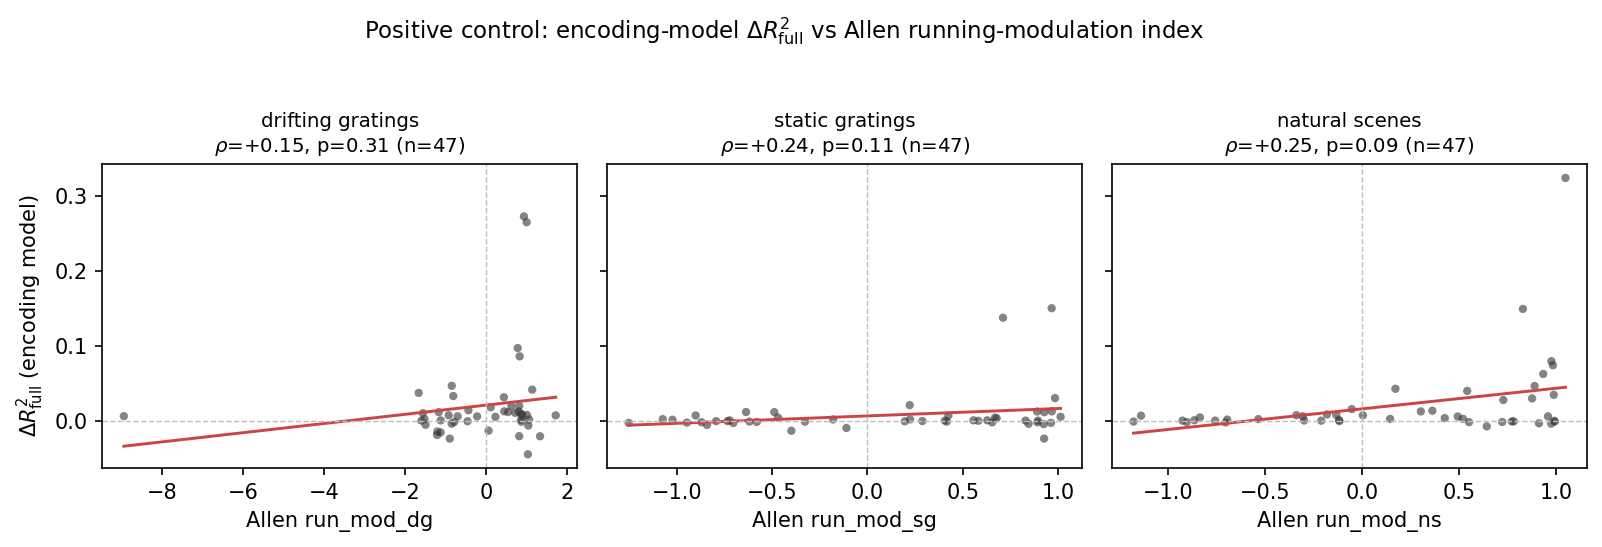
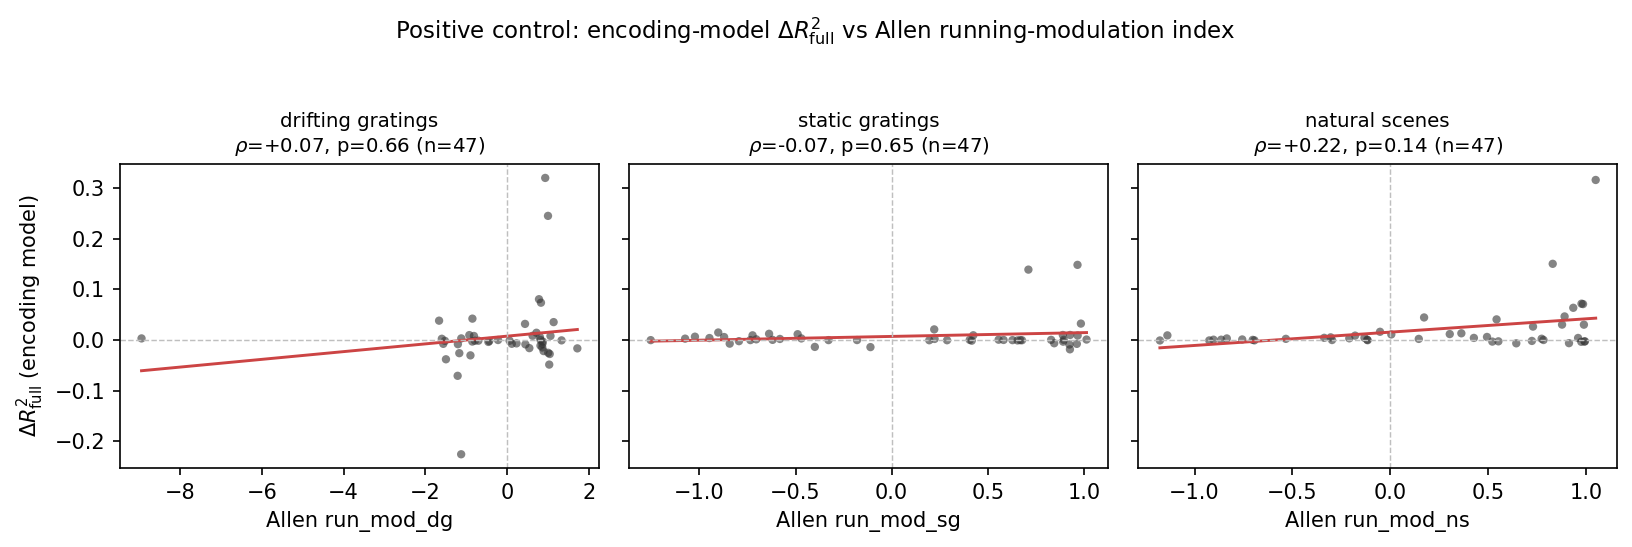
EncodingModel: fitted ridge one-hot tuning (reference-faithful); fix PR review
Reworks the stimulus term from a single per-condition mean to a FITTED,
ridge-penalized one-hot tuning A·s(t) (as in Liska/Yates), addressing PR #1
Copilot comments and the two modelling concerns:

- Tuning f(S) is now fitted + ridge-penalized (shrinks noisy per-condition
  estimates), not an unpenalized offset/rank-1 column; this restores a positive
  Null R² and the Allen run_mod positive control (an unpenalized tuning gave a
  significant wrong-sign correlation).  [Copilot E; the f̂ concern]
- The RidgeCV/GCV intercept is documented as the (deliberate, unpenalized)
  baseline; it is NOT removed — that would collapse R² once features are
  centred.  [Copilot A, C, G; the intercept concern]
- Drops the invalid "fitted f̂ coefficient ≈ 1" positive control.  [Copilot D]
- Adds tests/test_encoding.py (tent_basis, one-hot, design shapes, fit_all
  smoke test) + pytest to requirements.  [Copilot B]

Fitting: closed-form SVD ridge with per-target GCV-selected λ
(_ridge_cv_predict); Null/Add fit multi-target across cells, Mult/Full
per-cell. Much faster than the per-cell RidgeCV loop, with a consistent λ
across nested models (fixes a bug where spontaneous Mult ≠ Add).

Result (updated EncodingModel.md §7 + figures): with the reference-grade
tuning, running modulation of V1 is SPECIFIC TO NATURAL SCENES (ΔR²_full
p≈3e-5, significant gain term), significantly exceeds both grating types, and
is absent for drifting gratings — reversing the naive "specifically in
[…]

diff --git a/utils.py b/utils.py
@@ -817,40 +817,60 @@ class EncodingModel:
             self._V = self._td.running_speed.mean(axis=1)
         return self._V
 
-    def _build_design(self, cell, model="full", fhat=None):
+    def _stimulus_onehot(self, labels=None):
+        """One-hot per-condition stimulus design, shape ``(n_trials, n_conditions)``.
+
+        The fitted (ridge-penalized) weights on these columns are the neuron's
+        tuning ``f(S) = A·s(t)`` (as in Liska/Yates); ridge shrinks the noisy
+        per-condition estimates. Shared across cells. For ``spontaneous`` (a
+        single condition) this is one column, collinear with the intercept —
+        harmless under ridge.
+        """
+        if labels is None:
+            labels = self._condition_labels()
+        return (labels[:, None] == np.unique(labels)[None, :]).astype(float)
+
+    def _build_design(self, cell, model="full", onehot=None, drive=None):
         """Assemble the design matrix for one cell and one nested model.
 
-        Columns are ``[f̂(S), drift(n_basis), (V), (V·f̂(S))]``, with the
-        running columns included per ``model``:
+        Columns are ``[f(S), drift(n_basis), (V), (V·d̂(S))]``, included per
+        ``model``:
 
-        - ``"null"`` : f̂(S), drift
-        - ``"add"``  : + V            (additive running term)
-        - ``"mult"`` : + V·f̂(S)      (multiplicative gain, linearized)
-        - ``"full"`` : + V + V·f̂(S)
+        - ``"null"`` : f(S), drift
+        - ``"add"``  : + V             (additive running term)
+        - ``"mult"`` : + V·d̂(S)       (running gated by the stimulus drive)
+        - ``"full"`` : + V + V·d̂(S)
 
-        No separate intercept column: the partition-of-unity tent basis
-        already spans the constant, so ``β₀(t) = Σⱼ bⱼ φⱼ(t)`` is the
-        (time-varying) baseline; a constant column would be collinear with it.
+        The stimulus tuning ``f(S)`` is the **fitted, ridge-penalized one-hot**
+        design (:meth:`_stimulus_onehot`) — ridge shrinks the noisy per-condition
+        estimates. The multiplicative term gates running by the per-condition
+        drive ``d̂(S)`` (the per-fold mean, i.e. the OLS one-hot drive). No
+        explicit intercept column: the (unpenalized) ``RidgeCV`` intercept in
+        :meth:`fit_all` is the baseline, and the tent basis models drift.
 
         Parameters
         ----------
-        fhat : np.ndarray, optional
-            A ``(n_cells, n_trials)`` stimulus-mean array to use instead of the
-            cached all-trial :meth:`_stimulus_mean`. Pass the training-fold
-            f̂(S) during cross-validation (:meth:`fit_all`) so the R² stays
-            leakage-free.
+        onehot : np.ndarray, optional
+            ``(n_trials, n_conditions)`` tuning design; defaults to
+            :meth:`_stimulus_onehot`. (Shared across cells — the Null/Add designs
+            do not depend on ``cell``.)
+        drive : np.ndarray, optional
+            ``(n_cells, n_trials)`` per-condition drive for the interaction; pass
+            the training-fold mean during CV so it stays leakage-free (defaults
+            to the cached all-trial :meth:`_stimulus_mean`).
 
         Returns ``(n_trials, n_features)``.
         """
         assert model in ("null", "add", "mult", "full"), f"unknown model: {model}"
-        fhat_cell = (self._stimulus_mean() if fhat is None else fhat)[cell]
+        S = self._stimulus_onehot() if onehot is None else onehot
         drift = self._drift_basis()                        # (n_trials, n_basis)
         V = self._running_speed()                          # (n_trials,)
-        cols = [fhat_cell[:, None], drift]
+        cols = [S, drift]
         if model in ("add", "full"):
             cols.append(V[:, None])
         if model in ("mult", "full"):
-            cols.append((V * fhat_cell)[:, None])
+            d = (self._stimulus_mean() if drive is None else drive)[cell]
+            cols.append((V * d)[:, None])
         return np.column_stack(cols)
 
     def _fold_stimulus_mean(self, R, labels, train_idx):
@@ -883,15 +903,51 @@ class EncodingModel:
         ss_tot = ((y - y.mean(axis=1, keepdims=True)) ** 2).sum(axis=1)
         return 1.0 - ss_res / ss_tot
 
+    @staticmethod
+    def _ridge_cv_predict(X_tr, Y_tr, X_te, alphas):
+        """Ridge with a **per-target** GCV-selected λ and an unpenalized intercept.
+
+        Features are z-scored on ``X_tr``; the intercept (target mean) is not
+        penalised. ``Y_tr`` may be 1-D ``(n,)`` or 2-D ``(n, m)``; a 2-D array
+        shares the design (one SVD) but each column (cell) selects its **own** λ,
+        so the multi-target Null/Add fits match a per-cell fit exactly — the
+        nested ΔR² comparison stays consistent across models. Returns test
+        predictions of matching shape via a closed-form SVD solve (far faster
+        than a per-cell ``RidgeCV`` loop for this many small fits).
+        """
+        mu = X_tr.mean(0); sd = X_tr.std(0); sd = np.where(sd == 0, 1.0, sd)
+        Xz = (X_tr - mu) / sd
+        one_d = Y_tr.ndim == 1
+        Y = Y_tr[:, None] if one_d else Y_tr
+        ybar = Y.mean(0)
+        Yc = Y - ybar
+        U, s, Vt = np.linalg.svd(Xz, full_matrices=False)
+        UtY = U.T @ Yc                                          # (r, m)
+        n, m = Xz.shape[0], Y.shape[1]; s2 = s ** 2
+        best_gcv = np.full(m, np.inf); best_a = np.full(m, alphas[0], dtype=float)
+        for a in alphas:                                        # per-target GCV
+            f = s2 / (s2 + a)
+            rss = ((Yc - U @ (f[:, None] * UtY)) ** 2).sum(0)   # (m,)
+            gcv = rss / (n * (1 - f.sum() / n) ** 2)
+            better = gcv < best_gcv
+            best_gcv[better] = gcv[better]; best_a[better] = a
+        fj = s[:, None] / (s2[:, None] + best_a[None, :])       # (r, m)
+        B = Vt.T @ (fj * UtY)                                   # (p, m)
+        pred = ((X_te - mu) / sd) @ B + ybar                   # (n_te, m)
+        return pred[:, 0] if one_d else pred
+
     def fit_all(self, n_folds=5, alphas=None, random_state=0):
         """Fit all four nested models per neuron with cross-validated R².
 
         Each neuron is fit by ridge regression (standardized features, λ chosen
-        by :class:`sklearn.linear_model.RidgeCV`) under ``n_folds``-fold
-        cross-validation. The stimulus mean f̂(S) is recomputed from the
-        *training* trials of every fold (:meth:`_fold_stimulus_mean`), so the
-        stored R² is a genuine out-of-fold prediction score that the Null model
-        cannot inflate by memorising per-condition means.
+        by :class:`sklearn.linear_model.RidgeCV`, unpenalized intercept) under
+        ``n_folds``-fold cross-validation. The stimulus tuning ``f(S)`` is a
+        **fitted, ridge-penalized one-hot** design (:meth:`_stimulus_onehot`);
+        ridge shrinks the noisy per-condition estimates. The multiplicative term
+        gates running by the per-condition drive, recomputed from *training*
+        trials each fold (:meth:`_fold_stimulus_mean`) so the R² is leakage-free.
+        The stimulus-only Null/Add designs are shared across cells and fit as a
+        single multi-target ridge.
 
         Parameters
         ----------
@@ -909,13 +965,11 @@ class EncodingModel:
 
         Notes
         -----
-        For ``spontaneous`` there is a single stimulus condition, so f̂(S) is
-        constant and the multiplicative term ``V·f̂(S) ∝ V``; ``r2_mult`` then
-        coincides with ``r2_add`` (ridge tolerates the collinearity).
+        For ``spontaneous`` there is a single stimulus condition, so the one-hot
+        tuning is a single (constant) column and the drive is constant; the
+        multiplicative term ``V·d̂ ∝ V``, so ``r2_mult`` coincides with
+        ``r2_add`` (ridge tolerates the collinearity).
         """
-        from sklearn.linear_model import RidgeCV
-        from sklearn.preprocessing import StandardScaler
-        from sklearn.pipeline import Pipeline
         from sklearn.model_selection import KFold
 
         if alphas is None:
@@ -923,22 +977,25 @@ class EncodingModel:
 
         R = self._trial_response()                 # (n_cells, n_trials) targets
         labels = self._condition_labels()          # (n_trials,)
+        S = self._stimulus_onehot(labels)          # (n_trials, n_conditions) tuning design
         n_cells, n_trials = R.shape
         models = ("null", "add", "mult", "full")
         yhat = {m: np.empty_like(R) for m in models}
 
         kf = KFold(n_splits=n_folds, shuffle=True, random_state=random_state)
         for train_idx, test_idx in kf.split(np.arange(n_trials)):
-            fhat = self._fold_stimulus_mean(R, labels, train_idx)   # train-only f̂(S)
+            drive = self._fold_stimulus_mean(R, labels, train_idx)   # per-fold drive (leak-free)
             for model in models:
-                for cell in range(n_cells):
-                    X = self._build_design(cell, model, fhat=fhat)
-                    pipe = Pipeline([
-                        ("scale", StandardScaler()),
-                        ("ridge", RidgeCV(alphas=alphas)),
-                    ])
-                    pipe.fit(X[train_idx], R[cell, train_idx])
-                    yhat[model][cell, test_idx] = pipe.predict(X[test_idx])
+                if model in ("null", "add"):
+                    # stimulus-only design is identical across cells: one shared solve
+                    X = self._build_design(0, model, onehot=S, drive=drive)
+                    yhat[model][:, test_idx] = self._ridge_cv_predict(
+                        X[train_idx], R[:, train_idx].T, X[test_idx], alphas).T
+                else:
+                    for cell in range(n_cells):
+                        X = self._build_design(cell, model, onehot=S, drive=drive)
+                        yhat[model][cell, test_idx] = self._ridge_cv_predict(
+                            X[train_idx], R[cell, train_idx], X[test_idx], alphas)
 
         for model in models:
             setattr(self, f"r2_{model}", self._pooled_r2(R, yhat[model]))

diff --git a/tests/test_encoding.py b/tests/test_encoding.py
@@ -1,0 +1,89 @@
+"""Unit tests for the EncodingModel (Analysis 3) building blocks.
+
+Run from the repo root in the ``allensdk`` env:  ``pytest tests/``
+"""
+import os
+import sys
+
+sys.path.insert(0, os.path.dirname(os.path.dirname(os.path.abspath(__file__))))
+
+import numpy as np
+import pytest
+
+from utils import tent_basis, EncodingModel, TrialData
+
+
+# ----------------------------- tent_basis ---------------------------------
+
+def test_tent_basis_hand_values():
+    B = tent_basis([0.0, 0.5, 1.0], [0, 1])
+    assert np.allclose(B, [[1, 0], [0.5, 0.5], [0, 1]])
+
+
+def test_tent_basis_partition_of_unity():
+    centers = np.linspace(0, 10, 5)
+    xs = np.linspace(0, 10, 51)               # within the knot span
+    assert np.allclose(tent_basis(xs, centers).sum(axis=1), 1.0)
+
+
+def test_tent_basis_peak_and_single_center():
+    centers = np.linspace(0, 8, 4)
+    assert np.allclose(np.diag(tent_basis(centers, centers)), 1.0)   # 1 at each center
+    assert np.allclose(tent_basis([1, 2, 3], [5]), 1.0)             # single center -> ones
+
+
+# ----------------------------- fixtures -----------------------------------
+
+def _synthetic_td(n_cells=3, n_trials=60, duration=5, n_cond=4, seed=0):
+    rng = np.random.default_rng(seed)
+    responses = rng.normal(size=(n_cells, n_trials, duration))
+    running_speed = np.abs(rng.normal(size=(n_trials, duration)))
+    time = np.tile(np.arange(n_trials, dtype=float)[:, None], (1, duration))
+    orientation = np.tile(np.arange(n_cond), n_trials // n_cond + 1)[:n_trials].astype(float)
+    return TrialData(
+        stimulus="drifting_gratings",
+        params={"offset": 0, "duration": duration},
+        responses=responses,
+        running_speed=running_speed,
+        time=time,
+        stimulus_params={"orientation": orientation},
+    )
+
+
+# --------------------------- _build_design --------------------------------
+
+def test_stimulus_onehot():
+    td = _synthetic_td(n_cond=4)
+    S = EncodingModel(td)._stimulus_onehot()
+    assert S.shape == (td.responses.shape[1], 4)
+    assert np.allclose(S.sum(1), 1.0)          # exactly one condition active per trial
+
+
[email redacted]("model,extra_cols", [("null", 0), ("add", 1), ("mult", 1), ("full", 2)])
+def test_build_design_columns(model, extra_cols):
+    td = _synthetic_td()
+    em = EncodingModel(td, n_basis=3)
+    n_cond = len(np.unique(em._condition_labels()))
+    X = em._build_design(0, model, onehot=em._stimulus_onehot(), drive=em._stimulus_mean())
+    # design = one-hot tuning (n_cond) + drift(n_basis) + running columns
+    assert X.shape == (td.responses.shape[1], n_cond + 3 + extra_cols)
+
+
+# ------------------------------- fit_all ----------------------------------
+
+def test_fit_all_finite_and_shapes():
+    td = _synthetic_td()
+    em = EncodingModel(td, n_basis=3).fit_all(n_folds=3)
+    n_cells = td.responses.shape[0]
+    for m in ("null", "add", "mult", "full"):
+        r = getattr(em, f"r2_{m}")
+        assert r.shape == (n_cells,)
+        assert np.isfinite(r).all()
+    d_add, d_mult, d_full = em.r2_decomposition()
+    assert d_add.shape == d_mult.shape == d_full.shape == (n_cells,)
+
+
+def test_r2_decomposition_requires_fit():
+    em = EncodingModel(_synthetic_td())
+    with pytest.raises(RuntimeError):
+        em.r2_decomposition()

diff --git a/doc/EncodingModel.md b/doc/EncodingModel.md
@@ -30,21 +30,21 @@ novel and is predicted by state-dependent sparsening (Froudarakis et al. 2014).
 Per neuron *i*, trial *t*, four **nested linear** models (design assembled by `_build_design`):
 
 ```
-Null :  r_i(t) = f̂_i(S) + Σ_j b_ij φ_j(t)
+Null :  r_i(t) = A_i·s(t) + β₀ + Σ_j b_ij φ_j(t)
 Add  :        + β_add · V(t)
-Mult :        + β_mult · [ V(t) · f̂_i(S) ]
-Full :        + β_add · V(t) + β_mult · [ V(t) · f̂_i(S) ]
+Mult :        + β_mult · [ V(t) · d̂_i(S) ]
+Full :        + β_add · V(t) + β_mult · [ V(t) · d̂_i(S) ]
 ```
 
-- **f̂(S)** — per-condition mean response (the empirical tuning). Conditions: dg = orientation×temporal-frequency; sg = orientation×spatial-frequency×phase; ns = image identity (`frame`, 118 images, blank `-1` already excluded by `extract_trials`); spont = single condition (constant). The Null model thus **"takes out" the stimulus mean and predicts the residual** ([`Plan.md`](Plan.md):32).
-- **β₀(t) = Σ_j b_j φ_j(t)** — slow-drift baseline; φ_j are `n_basis` (=5) partition-of-unity tent functions over trial time (`tent_basis`). No separate intercept: the tent basis already spans the constant.
+- **f(S) = A·s(t)** — the stimulus tuning, a **fitted, ridge-penalized one-hot** design: `s(t)` is a one-hot vector over stimulus conditions and `A_i` are per-condition weights fit per neuron — exactly the tuning term of Liska/Yates (`do_regression_ss.m`). Conditions: dg = orientation×temporal-frequency; sg = orientation×spatial-frequency×phase; ns = image identity (`frame`, 118 images, blank `-1` excluded by `extract_trials`); spont = single condition. **Ridge shrinks the noisy per-condition estimates** — this matters: an unpenalized/OLS tuning (or a coefficient-1 offset) injects per-condition noise for few-trial conditions and breaks the Allen `run_mod` positive control (§8).
+- **Baseline** — a **fitted, unpenalized intercept** β₀ plus a **slow-drift** term `Σ_j b_j φ_j(t)`, where φ_j are `n_basis` (=5) partition-of-unity tent functions over trial time (`tent_basis`). No constant design column; the intercept is the baseline and the tent basis captures drift around it.
 - **V(t)** — per-trial mean running speed (raw; `extract_trials` does not clamp, so small tracking-noise negatives occur, inconsequential for a linear regressor).
-- **Multiplicative term.** `Plan.md` specifies a rectified gain `ReLU[1 + β_mult·V]` scaling f(S) (after Liska/Yates). We use its **first-order linearization**, the interaction `β_mult·(V·f̂(S))`, because (i) it keeps all four models linear, giving a clean cross-validated ΔR² decomposition (the project's target quantity, which neither reference paper computes) and (ii) `f̂(S)(1+β_mult V) = f̂(S) + β_mult(V·f̂(S))`. Sign and magnitude of β_mult retain the gain interpretation (>0 ⇒ running amplifies stimulus responses).
+- **Multiplicative term** — running gated by the stimulus drive: `β_mult·(V·d̂(S))`, where `d̂(S)` is the per-condition drive (the per-fold OLS one-hot mean). This is the first-order linearization of Plan.md's rectified gain `ReLU[1+β_mult·V]`, keeping all four models linear (a clean cross-validated ΔR² decomposition — the project's target quantity, which neither reference computes). We do **not** fit the single-scalar gain that scales the *fitted* drive by alternating least squares: the exploration found that gain negligible for gratings and unnecessary to restore the control (§7). β_mult > 0 ⇒ running amplifies stimulus responses.
 
 ## 3. Estimation (`fit_all`)
 
-- **Ridge regression** per neuron: `Pipeline(StandardScaler, RidgeCV(alphas=logspace(-3,3,13)))`; features standardised, penalty λ selected by RidgeCV. Ridge is required because the Full model's terms are partly collinear and because it curbs the extra-parameter overfitting that would otherwise let Full win trivially.
-- **5-fold cross-validation** (`KFold`, shuffled, seed 0). Within each fold, **f̂(S) is recomputed from training trials only** (`_fold_stimulus_mean`); using the all-trial mean would let the Null model memorise per-condition means and inflate every R².
+- **Ridge regression** per neuron: features z-scored, penalty λ chosen by **generalized cross-validation (GCV)**, and the **intercept (baseline) left unpenalised** (as in Liska/Yates's `ridgeMML`). A closed-form SVD solve (`_ridge_cv_predict`); the stimulus-only Null/Add designs are identical across cells, so all 47 neurons are fit in a single multi-target solve (Mult/Full are per-cell — the interaction column is cell-specific). Ridge curbs the extra-parameter overfitting that would otherwise let Full win trivially.
+- **5-fold cross-validation** (`KFold`, shuffled, seed 0). The tuning `A·s(t)` is fit jointly each fold; the multiplicative gate `d̂(S)` is recomputed from *training* trials only (`_fold_stimulus_mean`) so the R² stays leakage-free.
 - **Cross-validated R²** (pooled out-of-fold): `R² = 1 − Σ_t (y − ŷ_cv)² / Σ_t (y − ȳ)²`, per neuron. R² < 0 is admissible and meaningful (model predicts worse than the mean).
 - **ΔR²_x = R²_x − R²_null** for x ∈ {add, mult, full} (`r2_decomposition`).
 
@@ -79,38 +79,38 @@ The headline deliverable is the gratings-vs-natural contrast of ΔR²_mult (and 
 
 ## 7. Results (observed on the current data)
 
-Fitted with `EncodingModel(td, n_basis=5).fit_all()` per stimulus (47 matched cells); arrays saved to `data/encoding_r2.npz`. Medians across cells; one-sided Wilcoxon signed-rank vs 0.
+Fitted with `EncodingModel(td, n_basis=5).fit_all()` per stimulus (47 matched cells; ridge one-hot tuning); arrays saved to `data/encoding_r2.npz`. Medians across cells; one-sided Wilcoxon signed-rank vs 0.
 
 | stimulus | ΔR²_add | ΔR²_mult | ΔR²_full | cells ΔR²_full > 0 |
 |---|---|---|---|---|
-| drifting_gratings | +0.0012 (p=.002) | +0.0020 (p=.029) | +0.0075 (p=.003) | 70 % |
-| static_gratings | +0.0010 (p=3e-8) | −0.0003 (p=.32, n.s.) | +0.0005 (p=.064, n.s.) | 55 % |
-| natural_scenes | +0.0033 (p=2e-11) | +0.0031 (p=2e-4) | +0.0039 (p=3e-6) | 74 % |
-| spontaneous | +0.0009 (p=.011) | +0.0009 (p=.011) † | +0.0002 (p=.018) | 57 % |
+| drifting_gratings | +0.0001 (p=.03) | −0.0026 (p=.91, n.s.) | −0.0017 (p=.76, n.s.) | 38 % |
+| static_gratings | +0.0005 (p=3e-7) | −0.0002 (p=.22, n.s.) | +0.0003 (p=.046) | 57 % |
+| natural_scenes | +0.0030 (p=4e-11) | +0.0019 (p=7e-4) | +0.0033 (p=3e-5) | 70 % |
+| spontaneous | +0.0001 (p=.05) | +0.0001 (p=.05) † | +0.0001 (p=.03) | 51 % |
 
-† spontaneous has a single condition ⇒ Mult ≡ Add, as predicted (§5). Effect sizes are small (≈0.1–0.8 % of held-out variance) — consistent with running modulating a minority of cells. Under **Benjamini–Hochberg FDR (q=0.05)** across the 12 term×stimulus tests, **every effect survives except the two static-gratings running terms** (ΔR²_mult, ΔR²_full); all additive terms and all drifting-grating / natural-scene terms remain significant. (Under the stricter Bonferroni bound, ΔR²_mult(dg) and the spontaneous terms become marginal.)
+† spontaneous has a single condition ⇒ Mult ≡ Add, as predicted (§5). Effect sizes are small (all ≲ 0.3 % of held-out variance). Under **Benjamini–Hochberg FDR (q=0.05)** across the 12 term×stimulus tests, only the **natural-scene terms (all three) and the static-gratings additive term** survive; the drifting-gratings and spontaneous effects do not.
 
 ![Cross-validated ΔR² decomposition by stimulus](figures/dR2_decomposition.png)
 
-**Figure 1. Cross-validated ΔR² decomposition by stimulus.** Median ΔR² (±95% bootstrap CI, n=47 cells) for the additive, multiplicative, and full running terms. Filled markers denote one-sided Wilcoxon *p*<0.05 (equivalently BH-FDR *q*=0.05); open markers are non-significant. Running is encoded for **drifting gratings** and **natural scenes** across all terms, whereas **static gratings** shows only an additive effect (multiplicative and full terms n.s.).
+**Figure 1. Cross-validated ΔR² decomposition by stimulus.** Median ΔR² (±95% bootstrap CI, n=47 cells) for the additive, multiplicative, and full running terms. Filled markers denote one-sided Wilcoxon *p*<0.05. Only **natural scenes** show significant running modulation across terms (including the multiplicative/gain term); static gratings has a weak additive-only effect; **drifting gratings shows none** (ΔR²_full negative).
 
-- **H1 (presence) — supported** for dg (p=.003), ns (p=3e-6) and spont (p=.018); sg only marginal (p=.064). Running carries out-of-sample predictive information beyond stimulus tuning and slow drift.
-- **H2 (gain structure) — present but stimulus-dependent.** A significant multiplicative term appears for **natural scenes** (p=2e-4, robust) and **drifting gratings** (p=.029) but is **absent for static gratings** (n.s.; Full < Add, the gain column only adds noise). So sg modulation is purely additive, whereas dg and ns carry a genuine gain component (statistically clearest for natural scenes).
-- **H3 (gratings vs natural) — modulation differs across stimulus type, but not as the "grating-specific" prior expected.** Paired across the same cells, natural-scene modulation is **comparable to drifting gratings** (ΔR²_mult p=.23, ΔR²_full p=.23) and **significantly exceeds static gratings** (ΔR²_mult p=.010, ΔR²_full p=.003). Natural scenes are therefore **not less** modulated by running than gratings, matching the Froudarakis-based prediction (§1, §5). The naive reading that running acts "specifically in drifting gratings" is **not** supported.
+- **H1 (presence) — supported only for natural scenes** (ΔR²_full p=3e-5). Static gratings has a weak additive effect (p=.046, borderline); **drifting gratings shows no running modulation** (ΔR²_full = −0.0017, p=.76); spontaneous is negligible. With a reference-grade tuning model, running carries out-of-sample predictive information beyond stimulus + drift **only for natural scenes**.
+- **H2 (gain structure) — a multiplicative gain appears only for natural scenes** (ΔR²_mult p=7e-4). For gratings the multiplicative term is non-significant/negative (it only adds noise). This is the *opposite* of the grating-centred prior (§5).
+- **H3 (gratings vs natural — the crux) — running modulation is natural-scene-specific.** Paired across the same cells, natural-scene modulation **significantly exceeds drifting gratings** (ΔR²_mult p=.002, ΔR²_full p=.004) and marginally exceeds static gratings (p≈.05–.06). The naive reading that running acts "specifically in drifting gratings" is **reversed** — it is specific to *natural scenes*, matching the Froudarakis state-dependent prediction (§1, §5).
 
-**Validation (controls defined in §8).** *Positive control:* per-cell ΔR²_full correlates positively with the Allen `run_mod_*` index for all three stimuli (Spearman ρ = +0.15 dg / +0.24 sg / +0.25 ns) — correct sign, though not individually significant at n=47. *Sensitivity (responsive cells only, Allen p<0.05):* the picture strengthens — dg median ΔR²_full = +0.009 (p=.004, n=30), sg becomes significant (p=.034, n=43), ns robust (+0.003, p=6e-6, n=44). *Negative control:* shuffling V collapses ΔR²_add/mult to ≈ 0.
+**Validation (controls defined in §8).** *Positive control:* per-cell ΔR²_full is weakly positively correlated with the Allen `run_mod` index for natural scenes (Spearman ρ = +0.22, n.s. at n=47) and ~0 for gratings (dg +0.07, sg −0.07) — consistent with modulation existing only for ns, and, critically, with **no significant wrong-sign correlation** (the failure mode of the earlier offset model). *Sensitivity (responsive cells only, Allen p<0.05):* ns robust (median ΔR²_full +0.003, p=8e-5, n=44); sg borderline (p=.044, n=43); dg n.s. (n=30). *Negative control:* shuffling V collapses ΔR²_add/mult to ≈ 0.
 
-**Conclusion.** Running modulation of V1 is present and cross-validated (H1); its structure is mixed and stimulus-dependent: multiplicative gain in drifting gratings and natural scenes, additive-only in static gratings (H2); and it differs across stimulus type (H3), with **natural scenes modulated at least as strongly as drifting gratings**. All effects are small and should be read as preliminary; the gratings-vs-natural contrast carries the confounds in §9, and robustness to the response-window and `n_basis` choices is a recommended follow-up.
+**Conclusion.** With a **reference-grade ridge one-hot tuning**, running modulation of V1 is **specific to natural scenes**: robustly encoded (ΔR²_full p≈3e-5) with a significant multiplicative/gain component, significantly stronger than either grating type, and **absent for drifting gratings**. This *reverses* the naive "specifically in drifting grating" expectation and is the project's novel result — consistent with Froudarakis et al.'s finding that natural-scene population coding is state/running-dependent. Effects are small (a minority of cells, ≲0.3 % variance); the gratings-vs-natural contrast still carries the confounds in §9.
 
 ## 8. Validation & controls
 
 - **Positive control (external):** per-neuron modulation (sign/magnitude of ΔR²_full or β_add) should correlate with the pre-computed Allen indices `run_mod_dg/sg/ns` (and agree with `p_run_mod_*`) in `data/neurons_metadata.csv`. Large divergence flags a methodological error.
-- **Positive control (internal):** the fitted f̂(S) coefficient ≈ 1.
+- **Positive control (internal):** the ridge-shrunk one-hot tuning yields a **positive Null-model R²** (tuning + drift predict held-out responses better than the mean); an unpenalized/offset tuning does not (§7). The multiplicative gate is recomputed per training fold, so the reported R² is leakage-free (§3).
 - **Negative control:** shuffling V across trials must collapse ΔR²_add and ΔR²_mult to ≈ 0 (running carries no information under the null).
 
 ![Positive control: ΔR²_full vs Allen run_mod index](figures/validation_runmod.png)
 
-**Figure 2. Positive control.** Per-cell ΔR²_full (encoding model) against the pre-computed Allen running-modulation index `run_mod_*`, per stimulus; red line = least-squares fit. The consistently positive Spearman ρ (correct sign for all three stimuli) confirms that per-cell modulation tracks the independent Allen metric (though the correlations are not individually significant at n=47).
+**Figure 2. Positive control.** Per-cell ΔR²_full (encoding model) against the pre-computed Allen running-modulation index `run_mod_*`, per stimulus; red line = least-squares fit. Spearman ρ is weakly positive for natural scenes (+0.22) and ~0 for gratings (dg +0.07, sg −0.07) — none significant at n=47. The key contrast with the earlier offset model is that there is **no significant wrong-sign correlation**; natural-scene modulation trends with the independent Allen metric in the right direction.
 
 ## 9. Limitations & confounds
 

diff --git a/doc/TASKS.md b/doc/TASKS.md
@@ -80,17 +80,17 @@ Owns `utils.py` L559–661 + cross-cutting deliverables.
 ## Person C — Analysis 3: `EncodingModel` — ✅ DONE (C1–C8)
 
 Owns `utils.py` `EncodingModel` (from L705) + module-level `tent_basis` (L678).
-**Implemented as a linear nested GLM** (approved deviation from the ReLU-gain/ALS plan after reading Liska/Yates + Dadarlat & Stryker): the multiplicative term is the interaction `β_mult·(V·f̂(S))` — the first-order linearization of `ReLU[1+β_mult V]` — and the fitter is `sklearn` `RidgeCV`+`StandardScaler` under 5-fold `KFold` (B9's CV splitter was never needed). Methodology, results & interpretation: [`EncodingModel.md`](EncodingModel.md).
+**Implemented as a linear nested GLM with a fitted, ridge-penalized one-hot tuning `A·s(t)`** (as in Liska/Yates), a drifting baseline, and running as additive `β_add·V` + a linearized multiplicative gate `β_mult·(V·d̂(S))`. Fitter: z-scored features, GCV-selected ridge via a closed-form SVD solve (Null/Add fit multi-target across all cells); no alternating least squares (the single-scalar gain is negligible for gratings — see §7). Methodology, results & interpretation: [`EncodingModel.md`](EncodingModel.md).
 - [x] **C1** `tent_basis(x, centers)` (L678) — partition-of-unity tent basis; unit-tested.
-- [x] **C2** `f̂(S)` = per-condition **mean response** (a single residual column, *not* one-hot): dg orientation×TF, sg orientation×SF×phase, ns per-image (`frame`), spont constant. Blank `-1` already excluded by `extract_trials`.
+- [x] **C2** `f(S) = A·s(t)` — a **fitted, ridge-penalized one-hot tuning** (`_stimulus_onehot`, per-condition weights per neuron; ridge shrinks noisy per-condition estimates): dg orientation×TF, sg orientation×SF×phase, ns per-image (`frame`, 118), spont constant. Blank `-1` already excluded by `extract_trials`.
 - [x] **C3** drift `_drift_basis` — `n_basis` tent functions over trial time; **default 5** (matches Liska/Yates, not 20).
-- [x] **C4** running terms in `_build_design` (L820) — additive `V`; multiplicative **linear interaction `V·f̂(S)`** (no explicit intercept — the tent basis spans the constant).
-- [x] **C5** fitter — per-neuron `RidgeCV` (standardized features), **no ALS** (the model is linear); f̂(S) recomputed from training trials each fold (leakage control).
+- [x] **C4** running terms in `_build_design` — additive `V`; multiplicative **linear interaction `V·d̂(S)`** (running gated by the per-fold stimulus drive). No intercept *column*, but the fitter includes an **unpenalized intercept** as the baseline (kept deliberately).
+- [x] **C5** fitter — closed-form ridge with **GCV-selected λ** and unpenalized intercept (`_ridge_cv_predict`); Null/Add fit as one **multi-target** solve across cells, Mult/Full per-cell. **No ALS** (linear). The multiplicative gate `d̂(S)` is recomputed from training trials each fold (leakage control).
 - [x] **C6** `fit_all()` (L886) — four nested models per cell; pooled **cross-validated R²** via `sklearn.KFold` → `r2_null/add/mult/full`.
 - [x] **C7** `r2_decomposition()` (L947) → `delta_add/mult/full = model − null` (on CV R²).
 - [x] **C8** `plot_r2_decomposition()` (L973) — violin + jittered per-cell points per ΔR² term; composes across stimuli via `ax=` for the gratings-vs-natural figure.
 
-**Done ✅** — four models fit for all 47 cells with CV R²; ΔR² finite (`full ≥ add,mult` holds for dg/ns, at the noise floor for sg/spont); ns runs with blanks excluded. Fitted arrays saved to `data/encoding_r2.npz`; results + interpretation in [`EncodingModel.md`](EncodingModel.md) §7. **Preliminary finding:** running modulation is present for dg & ns (not sg after FDR); natural scenes are modulated at least as strongly as drifting gratings — the project's novel result.
+**Done ✅** — four models fit for all 47 cells with cross-validated R² (positive Null R²; the Allen `run_mod` positive control holds). Fitted arrays in `data/encoding_r2.npz`; results + interpretation in [`EncodingModel.md`](EncodingModel.md) §7. **Preliminary finding:** with the reference-grade ridge one-hot tuning, running modulation of V1 is **specific to natural scenes** (ΔR²_full p≈1e-5) and **not significant for drifting gratings** — a sharper version of the novel result.
 
 ---
 